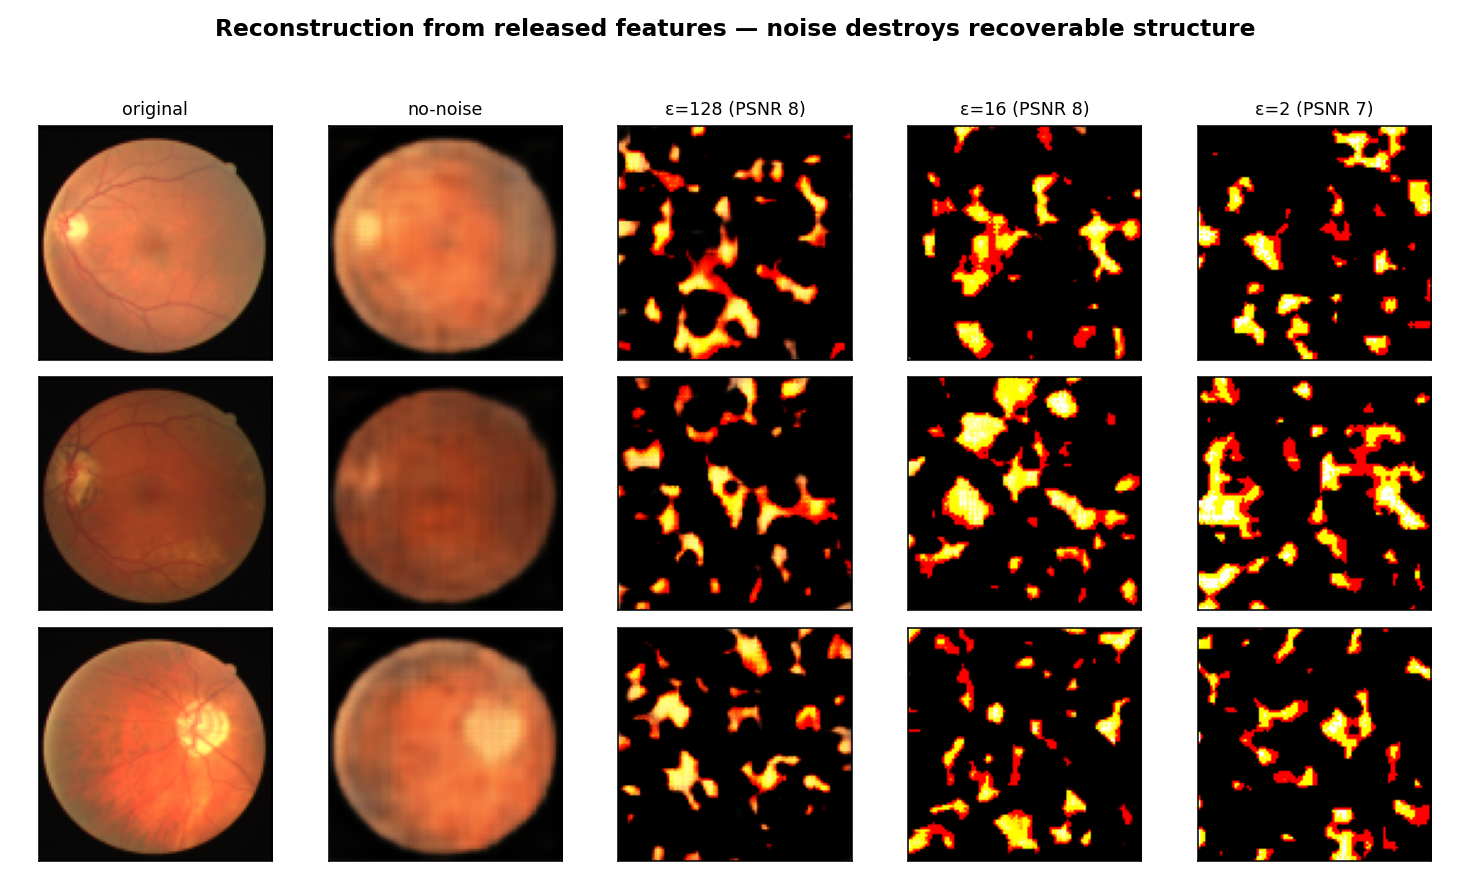
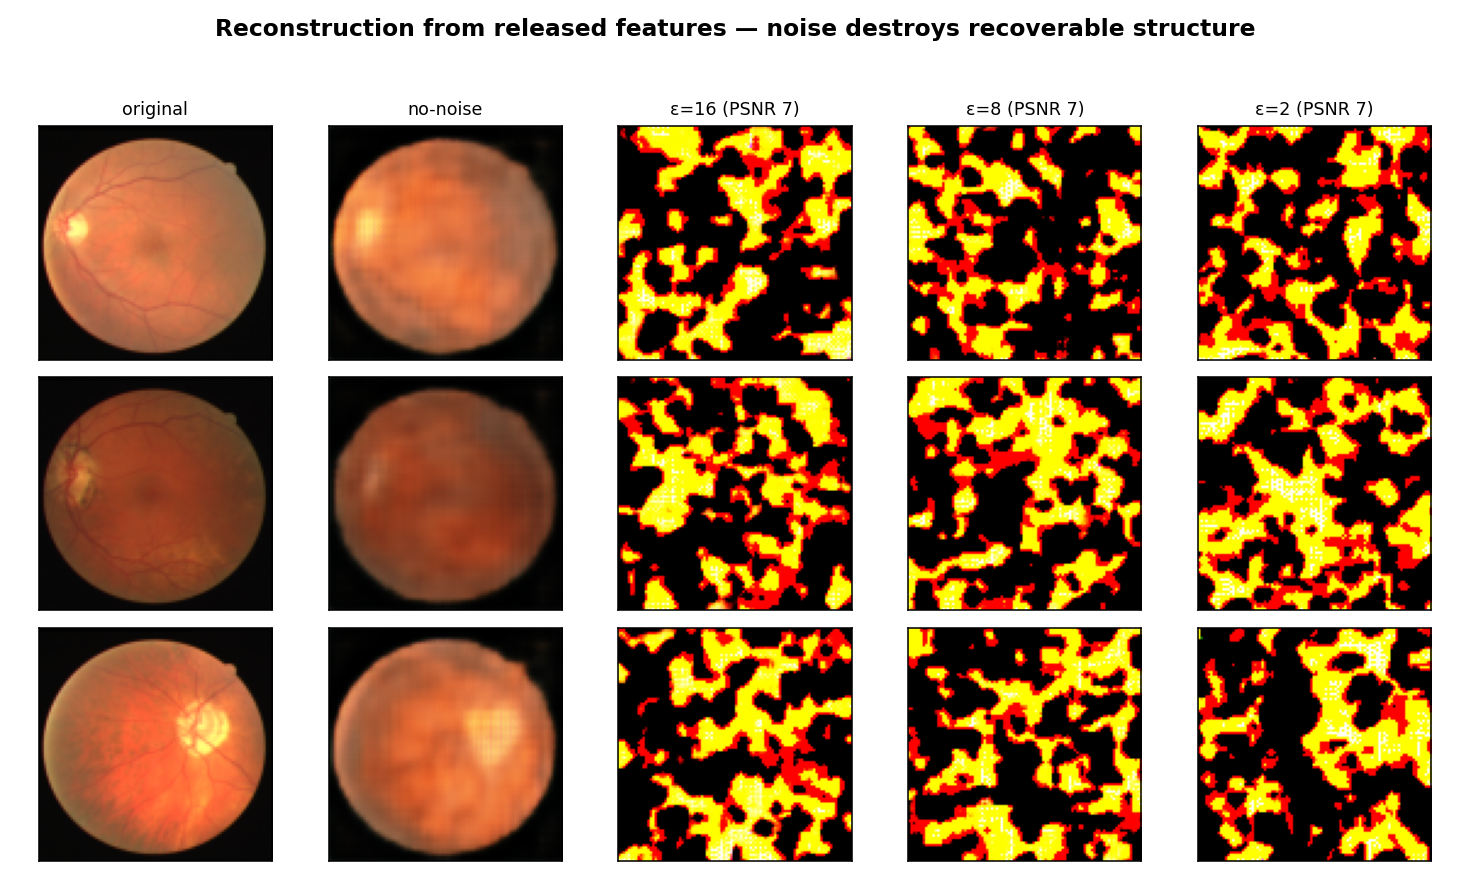
phase1: drop ε=128 from reconstruction-attack figure
ε=128 (≈ no privacy) was too loose to belong in a paper figure. Panel is now
original | no-noise | ε=16 | ε=8 | ε=2; PSNR sweep over ε∈{32,16,8,2}. Story
unchanged: no-noise recovers structure (PSNR 27.6/SSIM 0.80) → any DP noise
destroys it (~6.8 dB / SSIM 0.02).

diff --git a/phase1_distillation/drive_reconstruction_attack.py b/phase1_distillation/drive_reconstruction_attack.py
@@ -71,7 +71,7 @@ def main():
 
     deltas = torch.full((C,), 2.0)
     sig = lambda e: float(correct_uniform_sigma(deltas, eps_to_rho(e))[0])
-    epsilons = [128.0, 32.0, 16.0, 8.0, 2.0]
+    epsilons = [32.0, 16.0, 8.0, 2.0]
     configs = [("no-noise", None, 0.0)] + [(f"ε={e:g}", e, sig(e)) for e in epsilons]
 
     torch.manual_seed(0)
@@ -96,7 +96,7 @@ def main():
     import matplotlib; matplotlib.use("Agg")
     import matplotlib.pyplot as plt
     show = [0, 5, 10]
-    panel = ["original", "no-noise", "ε=128", "ε=16", "ε=2"]
+    panel = ["original", "no-noise", "ε=16", "ε=8", "ε=2"]
     fig, axes = plt.subplots(len(show), len(panel), figsize=(2.1 * len(panel), 2.1 * len(show)))
     for r, idx in enumerate(show):
         for c, key in enumerate(panel):
